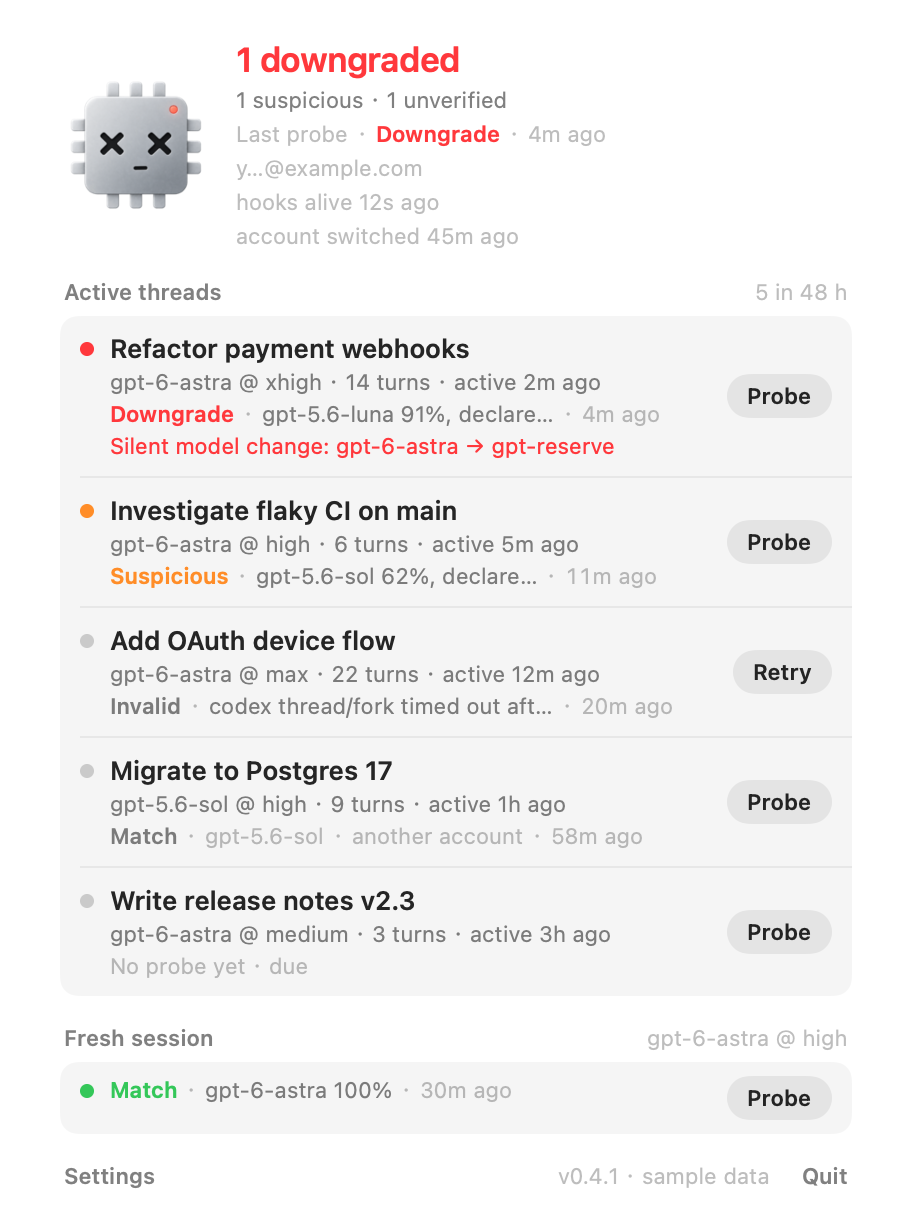
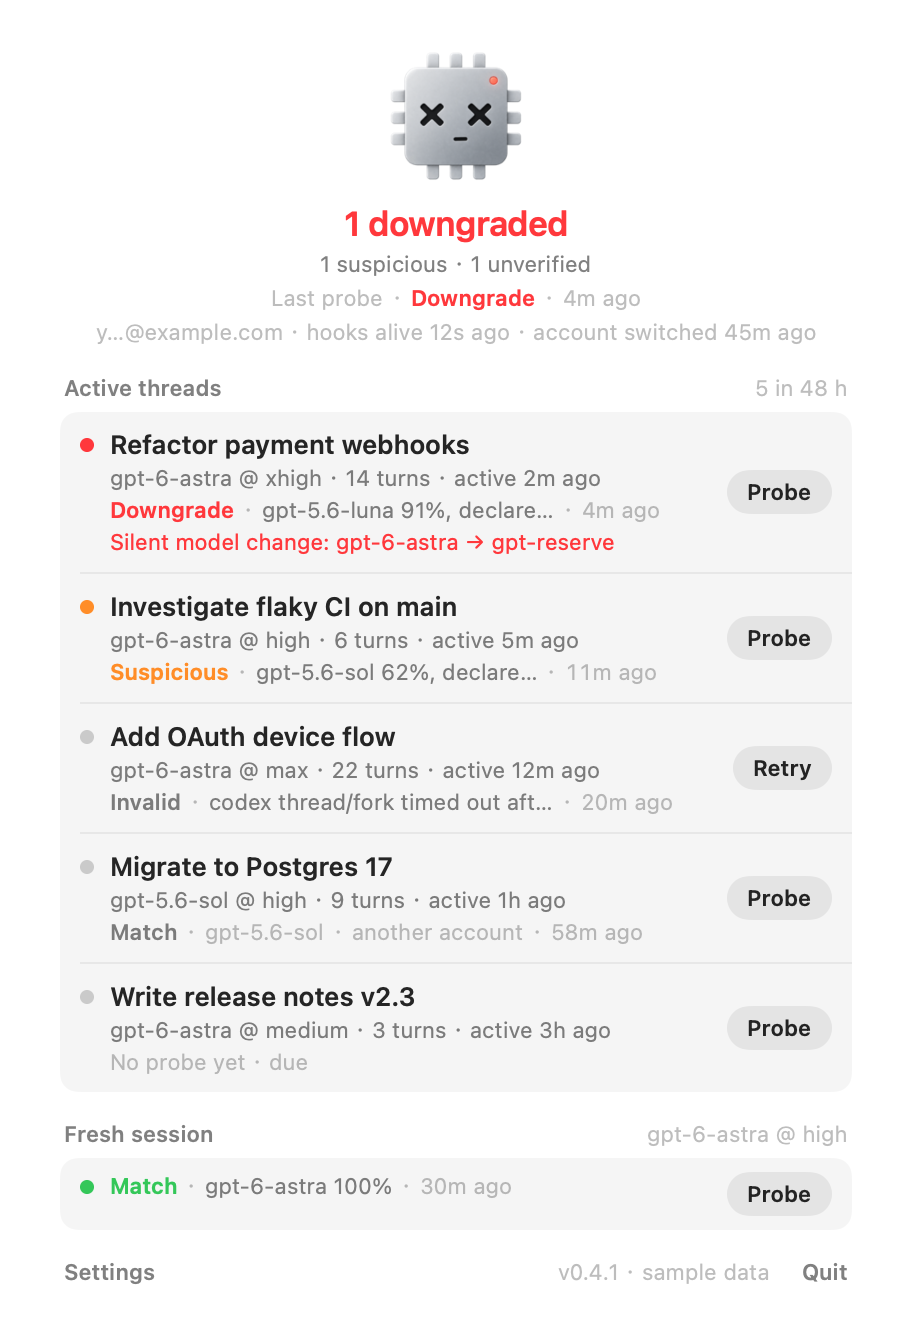
Header: centred hero, the face over the headline, counts, last probe and facts
A face-left row left the text floating in the middle of the panel whatever its length; centring the header balances it: the 72 pt face, then "1 downgraded" at 17 pt, the other counts, "Last probe · Match · 52m ago", and the account, hooks and switch facts on one quiet line.

diff --git a/macos/Sources/IsGPTNerfed/PanelView.swift b/macos/Sources/IsGPTNerfed/PanelView.swift
@@ -165,29 +165,31 @@ struct PanelView: View {
 
     // MARK: header
 
-    // The face, and beside it: the headline of the moment (17 pt, the panel's one large line: the first part of the
-    // status), the other counts, the last probe, then one quiet line per fact (account, hooks, switch).
+    // A centred hero: the face over the headline of the moment (17 pt), the other counts, the last probe and the
+    // quiet facts, so the header is balanced whatever the length of the headline.
     private var header: some View {
         let parts = statusWord.components(separatedBy: " · ")
-        return HStack(alignment: .center, spacing: 14) {
+        return VStack(spacing: 3) {
             FaceView(alert: store.isAlert, warn: store.isWarn, running: store.isRunning)
-            VStack(alignment: .leading, spacing: 3) {
-                Text(parts.first ?? "")
-                    .font(Type.headline)
-                    .foregroundStyle(store.isAlert ? .red : (store.isWarn ? .orange : .primary))
-                    .lineLimit(2)
-                if parts.count > 1 {
-                    Text(parts.dropFirst().joined(separator: " · ")).font(Type.text).foregroundStyle(.secondary).lineLimit(1)
-                }
-                if let (text, attention) = hooksLine, attention {
-                    Text(text).font(Type.strong).foregroundStyle(.orange).lineLimit(2)
-                }
-                lastProbeLine
-                ForEach(quietLines, id: \.self) { Text($0).font(Type.text).foregroundStyle(.tertiary).lineLimit(1) }
+                .padding(.bottom, 5)
+            Text(parts.first ?? "")
+                .font(Type.headline)
+                .foregroundStyle(store.isAlert ? .red : (store.isWarn ? .orange : .primary))
+                .lineLimit(2)
+                .multilineTextAlignment(.center)
+            if parts.count > 1 {
+                Text(parts.dropFirst().joined(separator: " · ")).font(Type.text).foregroundStyle(.secondary).lineLimit(1)
             }
-            Spacer(minLength: 0)
+            if let (text, attention) = hooksLine, attention {
+                Text(text).font(Type.strong).foregroundStyle(.orange).lineLimit(2).multilineTextAlignment(.center)
+            }
+            lastProbeLine
+            if !quietLines.isEmpty {
+                Text(quietLines.joined(separator: " · ")).font(Type.text).foregroundStyle(.tertiary).lineLimit(2).multilineTextAlignment(.center)
+            }
         }
-        .padding(.horizontal, 2)
+        .frame(maxWidth: .infinity)
+        .padding(.top, 2)
     }
 
     /// "Last probe · Match · 49m ago": the newest probe of any thread or fresh session.
